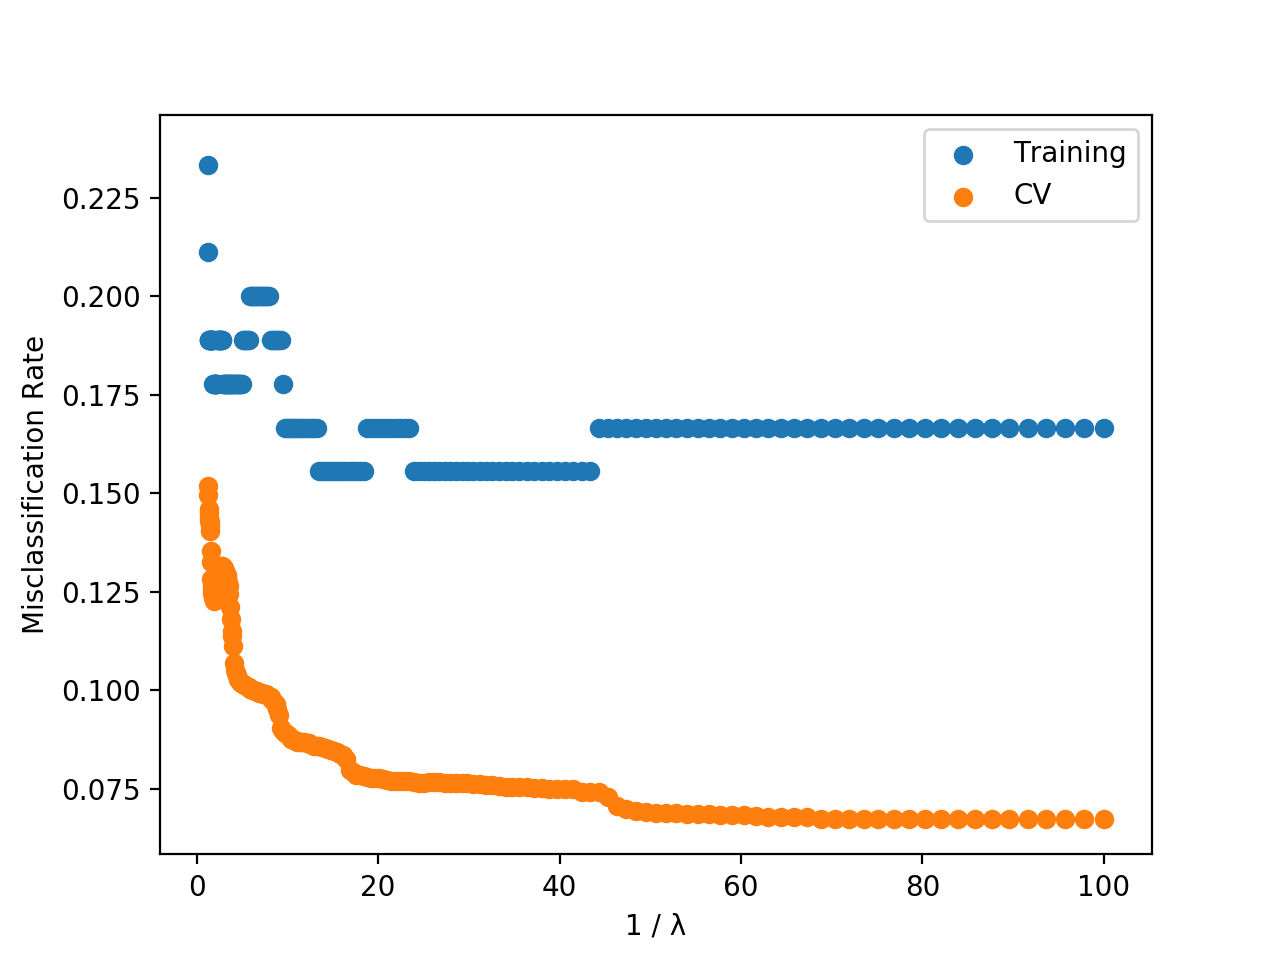
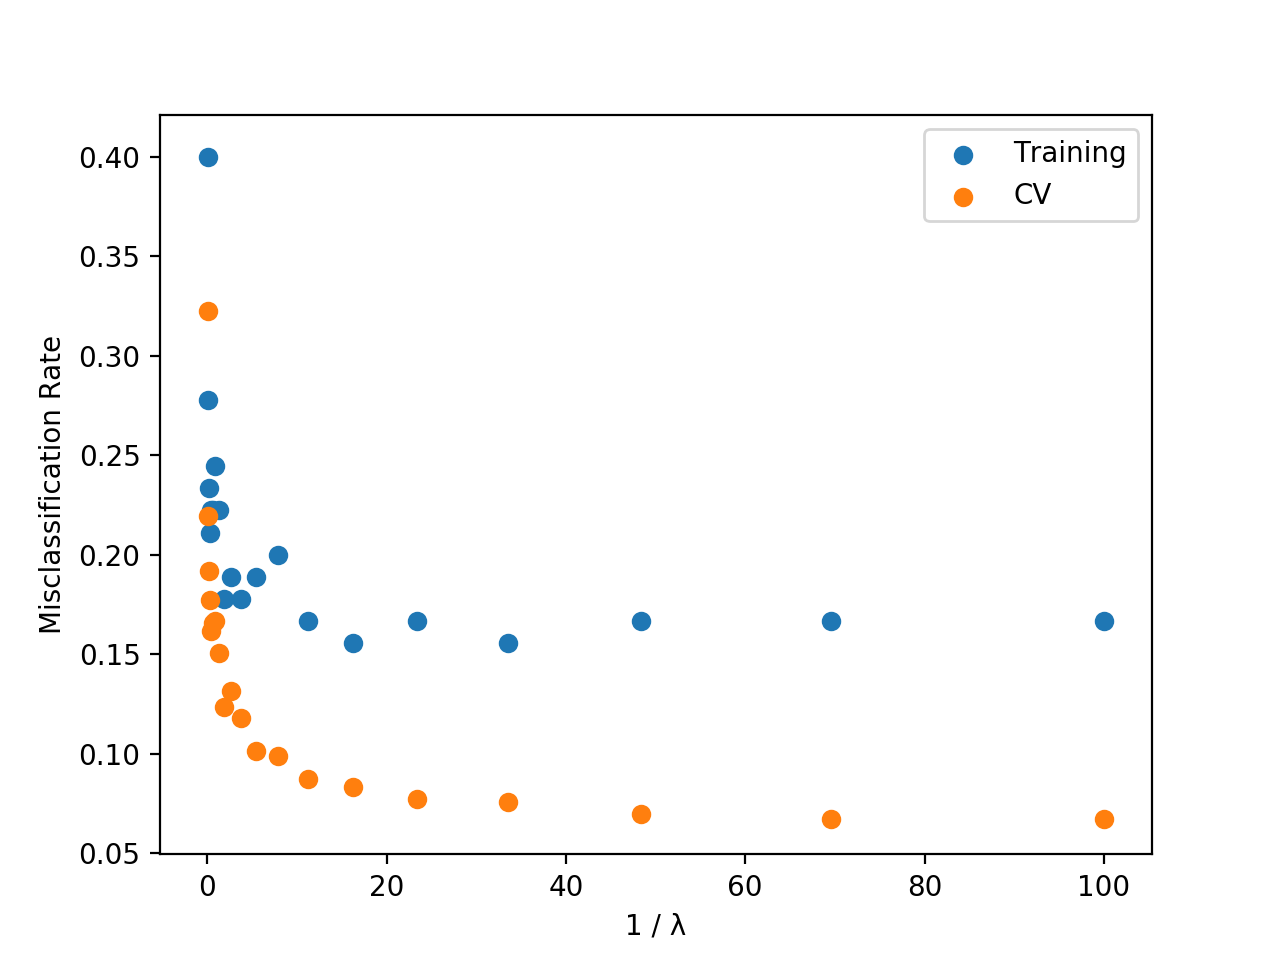
Finished model building. Push R code to the repository.

diff --git a/classification.py b/classification.py
@@ -3,17 +3,19 @@ import numpy as np
 from sklearn import svm
 import classification_functions as cf
 
-np.set_printoptions(precision=4)
 ###############################
 # vanilla logistic regression #
 ###############################
 vanilla_logistic_model = lm.LogisticRegression(solver="lbfgs", tol=1e-5, max_iter=100000, random_state=500)
-vanilar_logistic_param_grid = {"penalty": ["none"]}
+vanilla_logistic_param_grid = {"penalty": ["none"]}
 
-aic_result_tuple = cf.model_fitting(model=vanilla_logistic_model, param_grid=vanilar_logistic_param_grid,
+baseline_result_tuple = cf.model_fitting(model=vanilla_logistic_model, param_grid=vanilla_logistic_param_grid,
+                                         dt_fun=cf.svm_dt)
+
+aic_result_tuple = cf.model_fitting(model=vanilla_logistic_model, param_grid=vanilla_logistic_param_grid,
                                    dt_fun=cf.aic_logisitc_dt)
 
-bic_result_tuple = cf.model_fitting(model=vanilla_logistic_model, param_grid=vanilar_logistic_param_grid,
+bic_result_tuple = cf.model_fitting(model=vanilla_logistic_model, param_grid=vanilla_logistic_param_grid,
                                    dt_fun=cf.bic_logisitc_dt)
 
 
@@ -21,14 +23,18 @@ bic_result_tuple = cf.model_fitting(model=vanilla_logistic_model, param_grid=van
 # Logistic regression with regularzation #
 ##########################################
 l2_logistic_model = lm.LogisticRegression(penalty="l2", solver="saga", max_iter=100000, random_state=0, tol=1e-5)
-# logistic_param_grid = {'C': np.linspace(60, 300, num=100)}
+
+logistic_param_grid = {'C': np.logspace(-2, 1, 100)}
+l2_baseline_logistic_model = cf.model_fitting(model=l2_logistic_model, param_grid=logistic_param_grid,
+                                              dt_fun=cf.svm_dt)
+cf.plot_error(l2_baseline_logistic_model, "l2_baseline")
 
 logistic_param_grid = {'C': np.logspace(1, 3, 100)}
 l2_aic_result_tuple =  cf.model_fitting(model=l2_logistic_model, param_grid=logistic_param_grid,
-                                       dt_fun=cf.aic_logisitc_dt)
+                                        dt_fun=cf.aic_logisitc_dt)
 cf.plot_error(l2_aic_result_tuple, "l2_aic")
 
-logistic_param_grid = {'C': np.logspace(0.1, 1, 100)}
+logistic_param_grid = {'C': np.logspace(-1, 1, 100)}
 l2_bic_result_tuple = cf.model_fitting(model=l2_logistic_model, param_grid=logistic_param_grid,
                                        dt_fun=cf.bic_logisitc_dt)
 cf.plot_error(l2_bic_result_tuple, "l2_bic")
@@ -36,7 +42,7 @@ cf.plot_error(l2_bic_result_tuple, "l2_bic")
 
 l1_logistic_model = lm.LogisticRegression(penalty="l1", solver="saga", max_iter=100000, random_state=0, tol=1e-5)
 
-logistic_param_grid = {'C': np.logspace(0.1, 2, 200)}
+logistic_param_grid = {'C': np.logspace(-1, 2, 20)}
 l1_result_tuple = cf.model_fitting(model=l1_logistic_model, param_grid=logistic_param_grid, dt_fun=cf.lp_logisitc_dt)
 cf.plot_error(l1_result_tuple, "l1_full")
 
@@ -44,7 +50,7 @@ cf.plot_error(l1_result_tuple, "l1_full")
 l1_result_tuple[5].best_estimator_.coef_
 
 # L2 full model
-logistic_param_grid = {'C': np.logspace(0.1, 2, 100)}
+logistic_param_grid = {'C': np.logspace(-1, 2, 100)}
 l2_full_result_tuple = cf.model_fitting(model=l2_logistic_model, param_grid=logistic_param_grid,
                                         dt_fun=cf.lp_logisitc_dt)
 cf.plot_error(l2_full_result_tuple, "l2_full")
@@ -54,7 +60,7 @@ cf.plot_error(l2_full_result_tuple, "l2_full")
 ##############
 # Create model and cv
 svm_model = svm.SVC(kernel='poly')
-svm_param_grid = {'C': np.linspace(1, 100, num=50), 'degree': [3]}
+svm_param_grid = {'C': np.logspace(1, 2, num=100), 'degree': [3]}
 
 svm_poly_result_tuple = cf.model_fitting(model=svm_model, param_grid=svm_param_grid, dt_fun=cf.svm_dt)
 cf.plot_error(svm_poly_result_tuple, "svm_poly")
